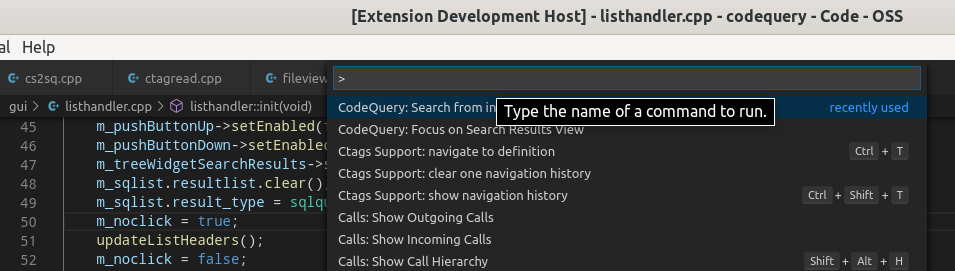
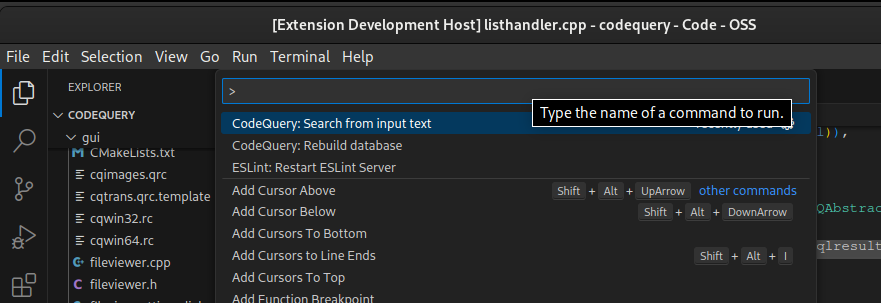
Update README and screenshots

diff --git a/README.md b/README.md
@@ -74,7 +74,7 @@ The extension will look for the CodeQuery database in `[project_base_path]/.vsco
 
 The CodeQuery database can be rebuilt by the extension using either a Bash script in `{project_base_path}/.vscode/codequery/rebuild.sh` or a Windows batch file in `{project_base_path}/.vscode/codequery/rebuild.bat`.
 
-The Bash script or Windows batch file can be called manually or through the codequery4vscode Visual Studio Code Extension. It's meant to be executed when the current working directory is `[project_base_path]`
+The Bash script or Windows batch file can be called manually or through the codequery4vscode Visual Studio Code extension. It's meant to be executed when the current working directory is `[project_base_path]`
 
 Let me provide an example here on how to prepare the source code of CodeQuery itself.
 
@@ -160,6 +160,24 @@ Please replace the wildcard expressions above with *.java, *.py, *.rb, *.go and 
 
 You may also want to add `.vecode` to the `.gitignore` file on the base folder of your source code.
 
+
+## How do I build or rebuild the CodeQuery database using this extension on Visual Studio Code?
+
+First, open the Command Palette using Ctrl+Shift+P. Alternatively, click `View` on the Visual Studio Code menu, then select `Command Palette...`.
+
+You will then see this:
+
+![Command Palette](media/commandpalette1.png)
+
+Next, type "CodeQuery" into the inputbox. It will narrow down the results. Select `CodeQuery: Rebuild database`.
+
+![Command Palette](media/commandpalette3.png)
+
+It could take a while to complete depending on the number of source code files to index. It will show a pop-up stating if the database rebuild was successful or failed.
+
+If `{project_base_path}/.vscode/codequery/rebuild.sh` (in Linux or Mac) or `{project_base_path}/.vscode/codequery/rebuild.bat` (in Windows) cannot be found or cannot be executed (due to insufficient permissions), an error notification will pop-up.
+
+
 ## How do I search or query my code using this extension on Visual Studio Code?
 
 First, open the base folder of your source code by clicking on `File` on the menu of Visual Studio Code, followed by selecting `Open Folder...`. Alternatively, press Ctrl+K Ctrl+O. If I use the same example as before, this refers to `C:\repo\codequery` on Windows or `/home/johndoe/repo/codequery` on Linux, assuming your username on Linux is johndoe.
@@ -187,7 +205,7 @@ Next, type "CodeQuery" into the inputbox. It will narrow down the results. Selec
 
 Next, it will show you a quickpick menu with a list of possible search types. In this example, we select `1: Symbol`.
 
-![Search type selection](media/searchtypeselection.png)
+![Search type selection](media/searchtypeselection1.png)
 
 Next, it will show you an inputbox, where you can type a search phrase. In this example, we typed `fileviewer` for fuzzy search. Then press Enter.
 
@@ -214,7 +232,7 @@ After this, right-click and a dropdown menu will appear. Select `CodeQuery: Sear
 
 Next, it will show you a quickpick menu with a list of possible search types. In this example, we select `1: Symbol`.
 
-![Search type selection](media/searchtypeselection.png)
+![Search type selection](media/searchtypeselection1.png)
 
 After this, the search results will be shown. How to browse the search results will be explained below.
 
@@ -229,7 +247,7 @@ After this, click on `[Click here to search]` on the codequery4vscode treeview.
 
 Next, it will show you a quickpick menu with a list of possible search types. In this example, we select `1: Symbol`.
 
-![Search type selection](media/searchtypeselection.png)
+![Search type selection](media/searchtypeselection1.png)
 
 Next, it will show you an inputbox, where you can type a search phrase. In this example, we typed `fileviewer` for fuzzy search. Then press Enter.
 
@@ -254,7 +272,7 @@ Below that, a list of files where the search results appear in, would be shown.
 
 ![Search results1](media/searchresults1.png)
 
-Select a file on the list to expand it, then select a line which represents a result. In this example, we selected searchhandler.cpp and selected the line `213: if ((res.result_type == sqlquery...`.  Then the file searchhandler.cpp will be opened and it will reveal line 213. Select other files and lines to see more results.
+Select a file on the list to expand it, then select a line which represents a result. In this example, we selected `cli/main_cli.cpp` and selected the line `181: if (resultlst.result_type == sqlquery...`.  Then the file main_cli.cpp will be opened and it will reveal line 181. Select other files and lines to see more results.
 
 ![Search results2](media/searchresults2.png)
 
@@ -264,7 +282,7 @@ Click on `[Search again with another type]` under Search Summary, to repeat the 
 
 Next, it will show you a quickpick menu with a list of possible search types. In this example, we select `3: Class or Struct`.
 
-![Search type selection](media/searchtypeselection.png)
+![Search type selection](media/searchtypeselection2.png)
 
 Next, the results will be updated as follows.
 
